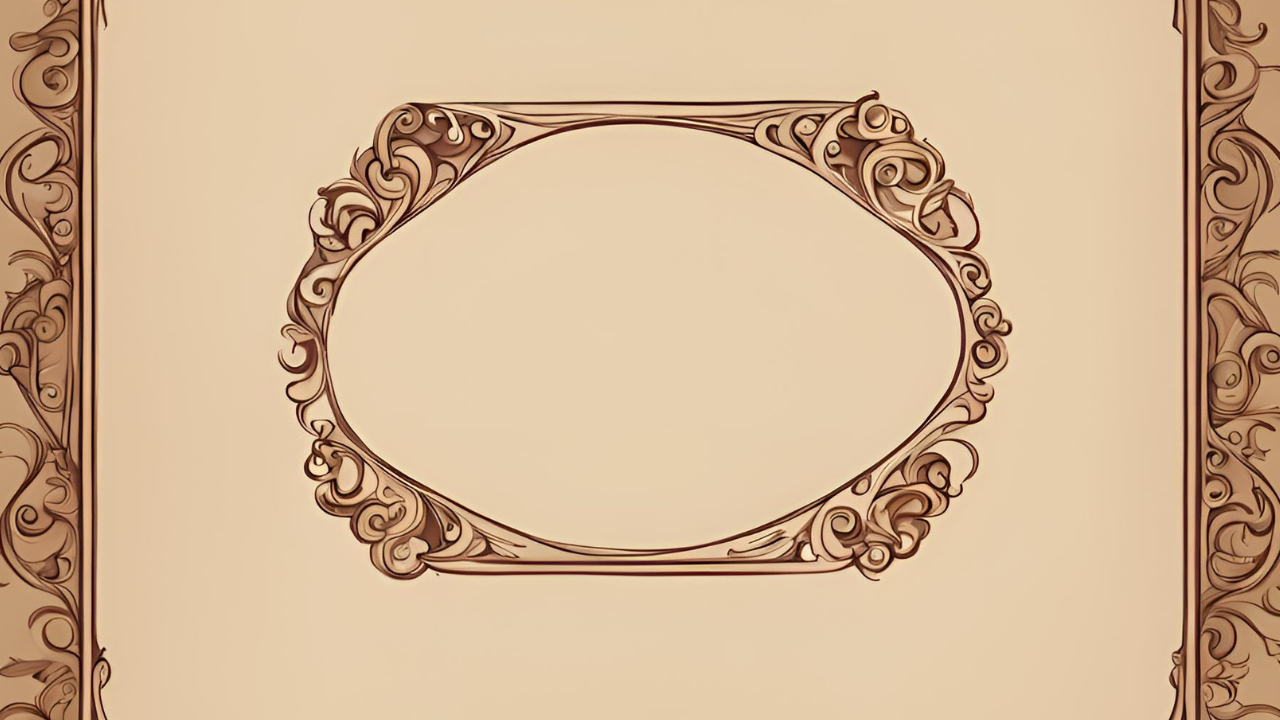
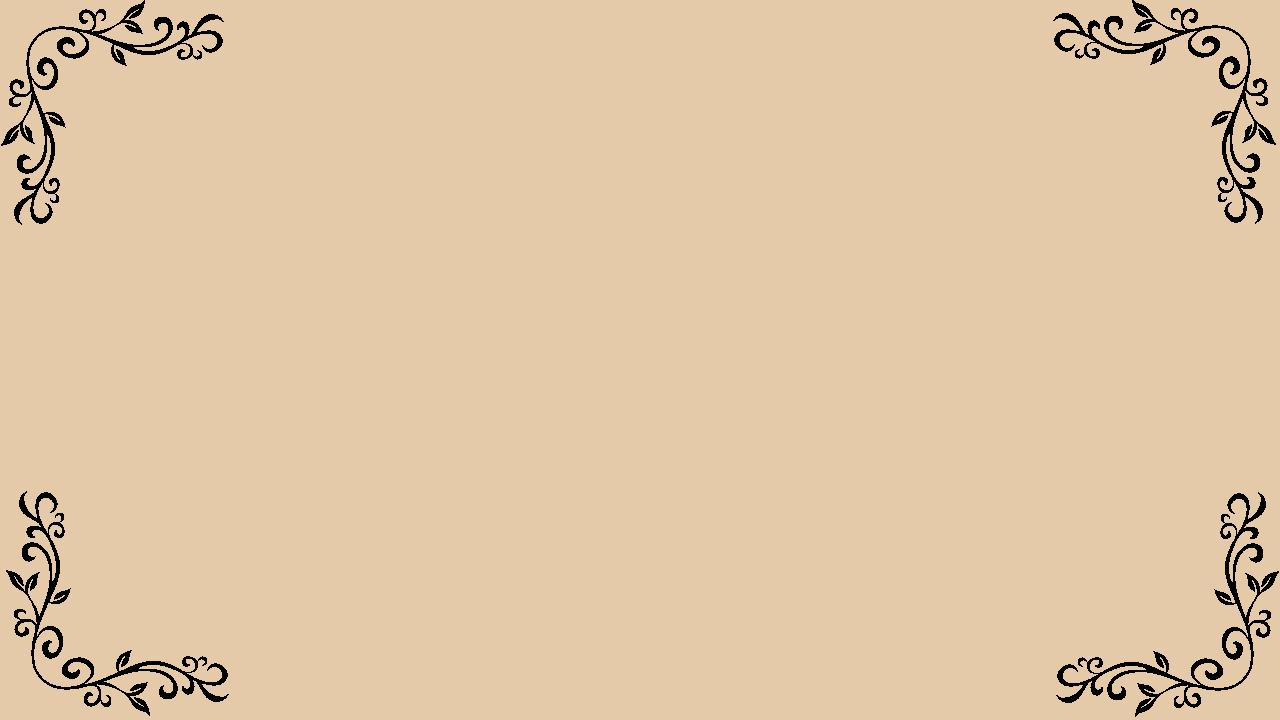
background added to gui

Changed region(s): [[0.2188, 0.1222, 0.8125, 0.825], [0.8125, 0.0, 1.0, 1.0], [0.0, 0.0, 0.1875, 1.0]]

diff --git a/CodexNaturalis/src/main/java/it/polimi/ingsw/View/GUI.java b/CodexNaturalis/src/main/java/it/polimi/ingsw/View/GUI.java
@@ -2,20 +2,16 @@ package it.polimi.ingsw.View;
 
 import it.polimi.ingsw.CS.Room;
 import it.polimi.ingsw.Model.*;
-import it.polimi.ingsw.Model.ScoreRules.FlatRule;
 import javafx.animation.ScaleTransition;
 import javafx.application.Application;
-import javafx.application.Platform;
 import javafx.concurrent.Task;
 import javafx.fxml.FXMLLoader;
-import javafx.geometry.Insets;
 import javafx.scene.Node;
 import javafx.scene.Parent;
 import javafx.scene.Scene;
 import javafx.scene.control.Button;
 import javafx.scene.control.Label;
 import javafx.scene.control.RadioButton;
-import javafx.scene.image.Image;
 import javafx.scene.image.ImageView;
 import javafx.scene.layout.AnchorPane;
 import javafx.scene.layout.HBox;
@@ -28,16 +24,15 @@ import javafx.util.Duration;
 import javafx.animation.*;
 
 import java.io.IOException;
-import java.lang.reflect.Array;
 import java.net.Socket;
 import java.util.ArrayList;
-import java.util.Objects;
 
 public class GUI extends Application{
     private final Screen screen = Screen.getPrimary();
     private final double screenHeight = screen.getBounds().getHeight();
     private final double screenWidth = screen.getBounds().getWidth();
     private GUIClientSocket client;
+    private ImageView background;
 
     @Override
     public void start(Stage stage) throws IOException {
@@ -47,12 +42,9 @@ public class GUI extends Application{
         Parent root = loader.load();
         Controller controller = loader.getController();
         controller.setStreams(client);
-        adjustLayout(controller.getHboxStart(), screenHeight, screenWidth, 768, 1366);
         controller.getBackgroundIV().fitWidthProperty().bind(controller.getHboxStart().widthProperty());
         controller.getBackgroundIV().fitHeightProperty().bind(controller.getHboxStart().heightProperty());
-       // adjustLayout(controller.getVboxStart(), screenHeight, screenWidth, 768, 1366);
-     //   controller.getLogo().fitWidthProperty().bind(controller.getHboxStart2().widthProperty());
-    //    controller.getLogo().fitHeightProperty().bind(controller.getHboxStart2().heightProperty());
+        background = controller.getBackgroundIV();
         stage.setTitle("Codex Naturalis");
         Scene scene = new Scene(root, screenWidth, screenHeight);
         stage.setScene(scene);
@@ -62,7 +54,6 @@ public class GUI extends Application{
         scene.setOnKeyReleased(keyEvent -> {
             try {
                 switchToRoomChoice(stage);
-                // switchToLogin(stage);
             } catch (IOException | ClassNotFoundException e) {
                 throw new RuntimeException(e);
             }
@@ -74,8 +65,7 @@ public class GUI extends Application{
         Parent root = loader.load();
         Controller controller = loader.getController();
         controller.setStreams(client);
-        VBox vboxRoom = controller.getVboxRoom();
-        adjustLayout(vboxRoom, screenHeight, screenWidth, 720, 1280);
+        controller.getAnchor2().getChildren().addFirst(background);
         Scene scene = new Scene(root, screenWidth, screenHeight);
         stage.setScene(scene);
         stage.show();
@@ -158,8 +148,7 @@ public class GUI extends Application{
         Parent root = loader.load();
         Controller controller = loader.getController();
         controller.setStreams(client);
-        VBox vboxNick = controller.getVboxNick();
-        adjustLayout(vboxNick, screenHeight, screenWidth, 768, 1366);
+        controller.getNickAnchor().getChildren().addFirst(background);
         Scene scene = new Scene(root, screenWidth, screenHeight);
         stage.setScene(scene);
         stage.show();
@@ -192,8 +181,7 @@ public class GUI extends Application{
         Parent root = loader.load();
         Controller controller = loader.getController();
         controller.setStreams(client);
-        VBox vboxNoPlayers = controller.getVboxNoPlayers();
-        //adjustLayout(vboxNoPlayers, screenHeight, screenWidth, 768, 1366);
+        controller.getAnchor3().getChildren().addFirst(background);
         Scene scene = new Scene(root);
         stage.setScene(scene);
         stage.show();
@@ -216,8 +204,7 @@ public class GUI extends Application{
         Parent root = loader.load();
         Controller controller = loader.getController();
         controller.setStreams(client);
-        VBox vboxSecretObjs = controller.getVboxSecretObjs();
-        adjustLayout(vboxSecretObjs, screenHeight, screenWidth, 768, 1366);
+        controller.getAnchor7().getChildren().addFirst(background);
         Scene scene = new Scene(root);
         stage.setScene(scene);
         stage.show();
@@ -247,8 +234,7 @@ public class GUI extends Application{
         Parent root = loader.load();
         Controller controller = loader.getController();
         controller.setStreams(client);
-        VBox vboxStartCard = controller.getVboxStartCard();
-        adjustLayout(vboxStartCard, screenHeight, screenWidth, 768, 1366);
+        controller.getAnchor6().getChildren().addFirst(background);
         Scene scene = new Scene(root);
         stage.setScene(scene);
         stage.show();
@@ -358,10 +344,9 @@ public class GUI extends Application{
         Parent root = loader.load();
         Controller controller = loader.getController();
         controller.setStreams(client);
+        controller.getAnchor4().getChildren().addFirst(background);
         Player player = client.receivePlayerFromServer();
         controller.getStartLabel().setText("Please "+player.getNickname()+", wait for other players to join.");
-        VBox vboxWaitStart = controller.getVboxWaitStart();
-        adjustLayout(vboxWaitStart, screenHeight, screenWidth, 768, 1366);
         Scene scene = new Scene(root);
         stage.setScene(scene);
         stage.show();
@@ -398,8 +383,7 @@ public class GUI extends Application{
         Parent root = loader.load();
         Controller controller = loader.getController();
         controller.setStreams(client);
-        VBox vboxWaitStart = controller.getVboxWaitStart();
-        adjustLayout(vboxWaitStart, screenHeight, screenWidth, 768, 1366);
+        controller.getAnchor5().getChildren().addFirst(background);
         Scene scene = new Scene(root);
         stage.setScene(scene);
         stage.show();
@@ -417,8 +401,7 @@ public class GUI extends Application{
         Parent root = loader.load();
         Controller controller = loader.getController();
         controller.setStreams(client);
-        VBox vboxWinners = controller.getVboxWinners();
-        adjustLayout(vboxWinners, screenHeight, screenWidth, 720, 1280);
+        controller.getAnchor9().getChildren().addFirst(background);
         String x = "";
         for(Player p: winners){
             if(winners.getLast().getNickname().equals(p.getNickname())) {
@@ -438,8 +421,7 @@ public class GUI extends Application{
         Parent root = loader.load();
         Controller controller = loader.getController();
         controller.setStreams(client);
-        VBox vboxWinner = controller.getVboxWinner();
-        adjustLayout(vboxWinner, screenHeight, screenWidth, 720, 1280);
+        controller.getAnchor8().getChildren().addFirst(background);
         controller.getWinnerName().setText("The winner is "+winners.getFirst().getNickname()+" !");
         Scene scene = new Scene(root);
         stage.setScene(scene);
@@ -517,49 +499,26 @@ public class GUI extends Application{
             throw new RuntimeException(ex);
         }
     }
-
-    public static void startGUI(){
+public static void startGUI(){
         launch();
     }
-
-    public void adjustLayout (Node node, double screenHeight, double screenWidth, int sceneBuilderHeight, int sceneBuilderWidth) {
-        double nodeHeight, nodeWidth;
-        if (node instanceof VBox nodeVBox) {
-            nodeHeight = nodeVBox.getPrefHeight();
-            nodeWidth = nodeVBox.getPrefWidth();
-        } else if (node instanceof HBox nodeHBox) {
-            nodeHeight = nodeHBox.getPrefHeight();
-            nodeWidth = nodeHBox.getPrefWidth();
-        } else {
-            System.out.println("Error in resizing...");
+public void simulateEnd(Stage stage) throws IOException {
+    boolean flag = true;
+    if(flag){ // se è il suo turno
+        if(!flag){
+            switchToYourTurn(stage);
         }
-        double newAnchor = AnchorPane.getTopAnchor(node) * screenHeight / sceneBuilderHeight;
-        AnchorPane.setTopAnchor(node, newAnchor);
-        newAnchor = AnchorPane.getBottomAnchor(node) * screenHeight / sceneBuilderHeight;
-        AnchorPane.setBottomAnchor(node, newAnchor);
-        newAnchor = AnchorPane.getLeftAnchor(node) * screenWidth / sceneBuilderWidth;
-        AnchorPane.setLeftAnchor(node, newAnchor);
-        newAnchor = AnchorPane.getRightAnchor(node) * screenWidth / sceneBuilderWidth;
-        AnchorPane.setRightAnchor(node, newAnchor);
-
-    }
-
- public void simulateEnd(Stage stage) throws IOException {
-        boolean flag = true;
-        if(flag){ // se è il suo turno
-            if(!flag){
-                switchToYourTurn(stage);
-            }
-            else{ // ultimo turno
-                showTwentyPoints(stage);
-              //  showZeroCards(stage);
-            }
+        else{ // ultimo turno
+            showTwentyPoints(stage);
+          //  showZeroCards(stage);
         }
-        ArrayList<Player> winners = new ArrayList<>();
-        winners.add(new Player("silvia"));
-      //  showSingleWinner(stage, winners);
-        winners.add(new Player("matteo"));
-        showWinners(stage, winners);
     }
+    ArrayList<Player> winners = new ArrayList<>();
+    winners.add(new Player("silvia"));
+  //  showSingleWinner(stage, winners);
+    winners.add(new Player("matteo"));
+    showWinners(stage, winners);
+}
+
 }
 

diff --git a/CodexNaturalis/src/main/java/it/polimi/ingsw/View/Controller.java b/CodexNaturalis/src/main/java/it/polimi/ingsw/View/Controller.java
@@ -20,16 +20,33 @@ import java.util.HashMap;
 import java.util.Objects;
 
 public class Controller {
+
     @FXML
     private VBox vboxWinners,vboxWinner,vboxWaitStart,vboxWaitFinish,vboxStartCard,vboxSecretObjs,vboxNoPlayers,vboxNickname,vboxRoom, VboxStart;
     @FXML
-    private AnchorPane paneRoom;
+    private AnchorPane anchor1;
     @FXML
-    private HBox hBoxStart, hBoxStart2;
+    private AnchorPane anchor2;
+    @FXML
+    private AnchorPane anchor3;
+    @FXML
+    private AnchorPane anchor4;
+    @FXML
+    private AnchorPane anchor5;
+    @FXML
+    private AnchorPane anchor6;
+    @FXML
+    private AnchorPane anchor7;
+    @FXML
+    private AnchorPane anchor8;
+    @FXML
+    private AnchorPane anchor9,nickAnchorPane;
+    @FXML
+    private HBox hBoxStart, hBoxRoom;
     @FXML
     private RadioButton buttonR,buttonL;
     @FXML
-    private ImageView frontStarterCard, backStarterCard, secretObjLeft, secretObjRight, backgroundIV;
+    private ImageView frontStarterCard, backStarterCard, secretObjLeft, secretObjRight, backgroundIV, backgroundIV2;
     @FXML
     private Button buttonSubDraw, finishButton, finishButton2, buttonStart, confirmRoom;
     @FXML
@@ -40,6 +57,7 @@ public class Controller {
     private ProgressBar waitingBar;
     @FXML
     private ComboBox<Label> menu;
+    @FXML
     private final Screen screen = Screen.getPrimary();
     private final double screenHeight = screen.getBounds().getHeight();
     private final double screenWidth = screen.getBounds().getWidth();
@@ -75,6 +93,7 @@ public class Controller {
     }
 
  */
+    public AnchorPane getAnchor2() {return anchor2;}
     public Button getNickButton() {
         return nickButton;
     }
@@ -110,7 +129,7 @@ public class Controller {
     public VBox getVboxWinner() {return vboxWinner;}
     public VBox getVboxStart() {return VboxStart;}
     public HBox getHboxStart() {return hBoxStart;}
-    public HBox getHboxStart2() {return hBoxStart2;}
+    public HBox getHboxRoom() {return hBoxRoom;}
     public Label getWinnerName() {return winnerName;}
     public Label getWinnersNames() {return winnersNames;}
     public Button getFinishButton() {return finishButton;}
@@ -129,6 +148,37 @@ public class Controller {
         return logo;
     }
     public ImageView getBackgroundIV(){ return backgroundIV;}
+    public ImageView getBackgroundIV2(){ return backgroundIV2;}
+    public AnchorPane getAnchor4() {
+        return anchor4;
+    }
+
+    public AnchorPane getAnchor5() {
+        return anchor5;
+    }
+
+    public AnchorPane getAnchor6() {
+        return anchor6;
+    }
+
+    public AnchorPane getAnchor7() {
+        return anchor7;
+    }
+
+    public AnchorPane getAnchor8() {
+        return anchor8;
+    }
+
+    public AnchorPane getAnchor9() {
+        return anchor9;
+    }
+
+    public AnchorPane getAnchor3() {
+        return anchor3;
+    }
+    public AnchorPane getNickAnchor(){
+        return nickAnchorPane;
+    }
 
     public void addRoomsMenu() throws IOException, ClassNotFoundException {
         confirmRoom.setVisible(false);
